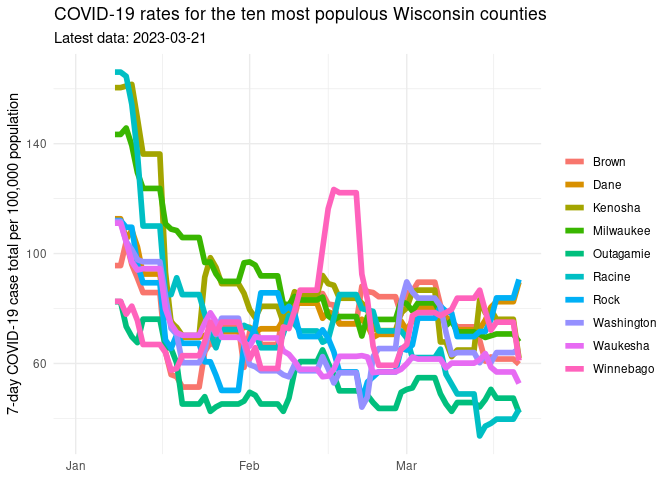
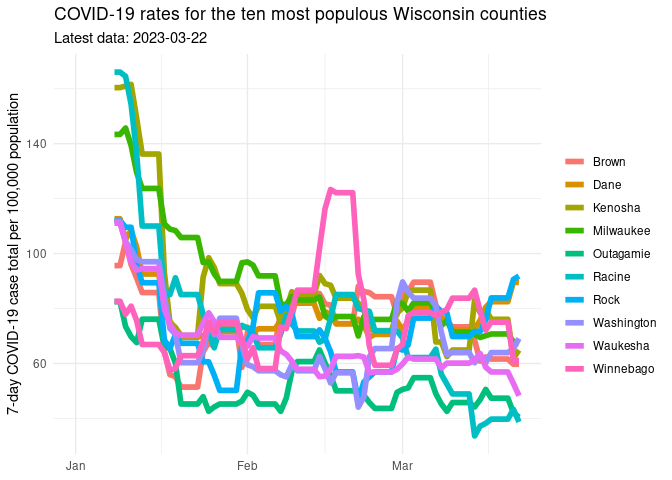
Updated report

diff --git a/README.md b/README.md
@@ -1,7 +1,7 @@
 Wisconsin COVID Report
 ================
 
-Report last run: 2023-03-22 22:08:38
+Report last run: 2023-03-23 22:08:47
 
 ## Introduction
 
@@ -105,25 +105,25 @@ rate_data %>%
   knitr::kable()
 ```
 
-| county       | state |     pop | covid_rate |
-|:-------------|:------|--------:|-----------:|
-| Delta        | Texas |    5331 |     147102 |
-| Frio         | Texas |   20306 |       6259 |
-| Denton       | Texas |  887207 |       4848 |
-| Loving       | Texas |     169 |       4142 |
-| Jones        | Texas |   20083 |       3934 |
-| Hudspeth     | Texas |    4886 |       3909 |
-| Crockett     | Texas |    3464 |       3695 |
-| Jasper       | Texas |   35529 |       3090 |
-| San Patricio | Texas |   66730 |       3069 |
-| Walker       | Texas |   72971 |       2894 |
-| Schleicher   | Texas |    2793 |       2542 |
-| Goliad       | Texas |    7658 |       2468 |
-| Crane        | Texas |    4797 |       2376 |
-| Comal        | Texas |  156209 |       2144 |
-| Deaf Smith   | Texas |   18546 |       2092 |
-| Victoria     | Texas |   92084 |       2045 |
-| Maverick     | Texas |   58722 |       2020 |
-| Childress    | Texas |    7306 |       1848 |
-| Terrell      | Texas |     776 |       1804 |
-| Travis       | Texas | 1273954 |       1789 |
+| county                   | state         |   pop | covid_rate |
+|:-------------------------|:--------------|------:|-----------:|
+| Hansford                 | Texas         |  5399 |        704 |
+| Pecos                    | Texas         | 15823 |        487 |
+| Douglas                  | South Dakota  |  2921 |        479 |
+| Yoakum                   | Texas         |  8713 |        448 |
+| Northwest Arctic Borough | Alaska        |  7621 |        420 |
+| Dewey                    | South Dakota  |  5892 |        390 |
+| Menifee                  | Kentucky      |  6489 |        385 |
+| Hyde                     | South Dakota  |  1301 |        384 |
+| Barnes                   | North Dakota  | 10415 |        384 |
+| Clay                     | Illinois      | 13184 |        379 |
+| Wirt                     | West Virginia |  5821 |        378 |
+| Thurston                 | Nebraska      |  7224 |        360 |
+| Bethel Census Area       | Alaska        | 18386 |        354 |
+| De Baca                  | New Mexico    |  1748 |        343 |
+| Charles Mix              | South Dakota  |  9292 |        334 |
+| Rolette                  | North Dakota  | 14176 |        282 |
+| Mineral                  | Montana       |  4397 |        273 |
+| Scott                    | Tennessee     | 22068 |        272 |
+| Piute                    | Utah          |  1479 |        270 |
+| Apache                   | Arizona       | 71887 |        270 |
